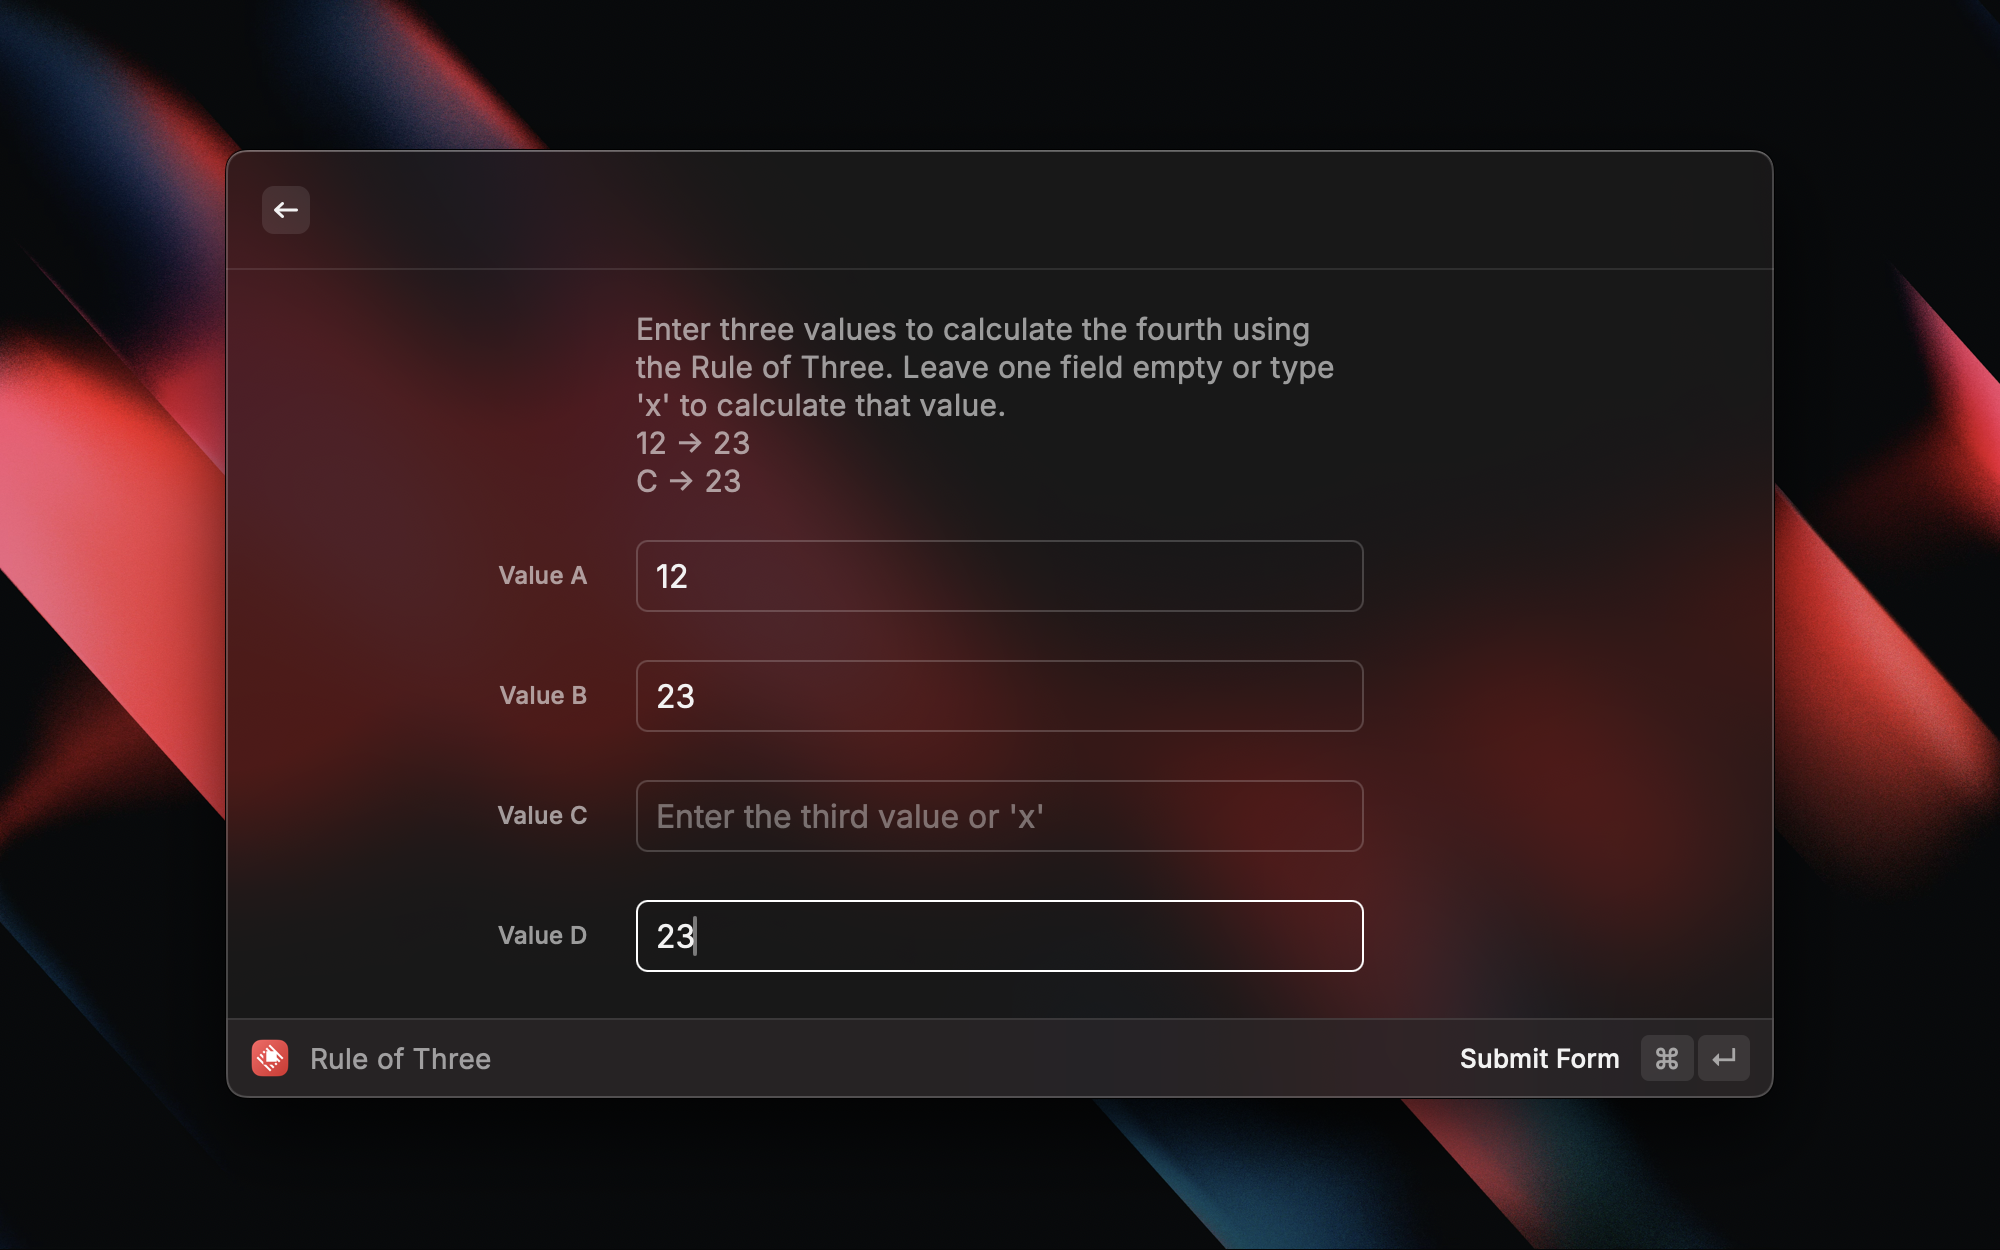
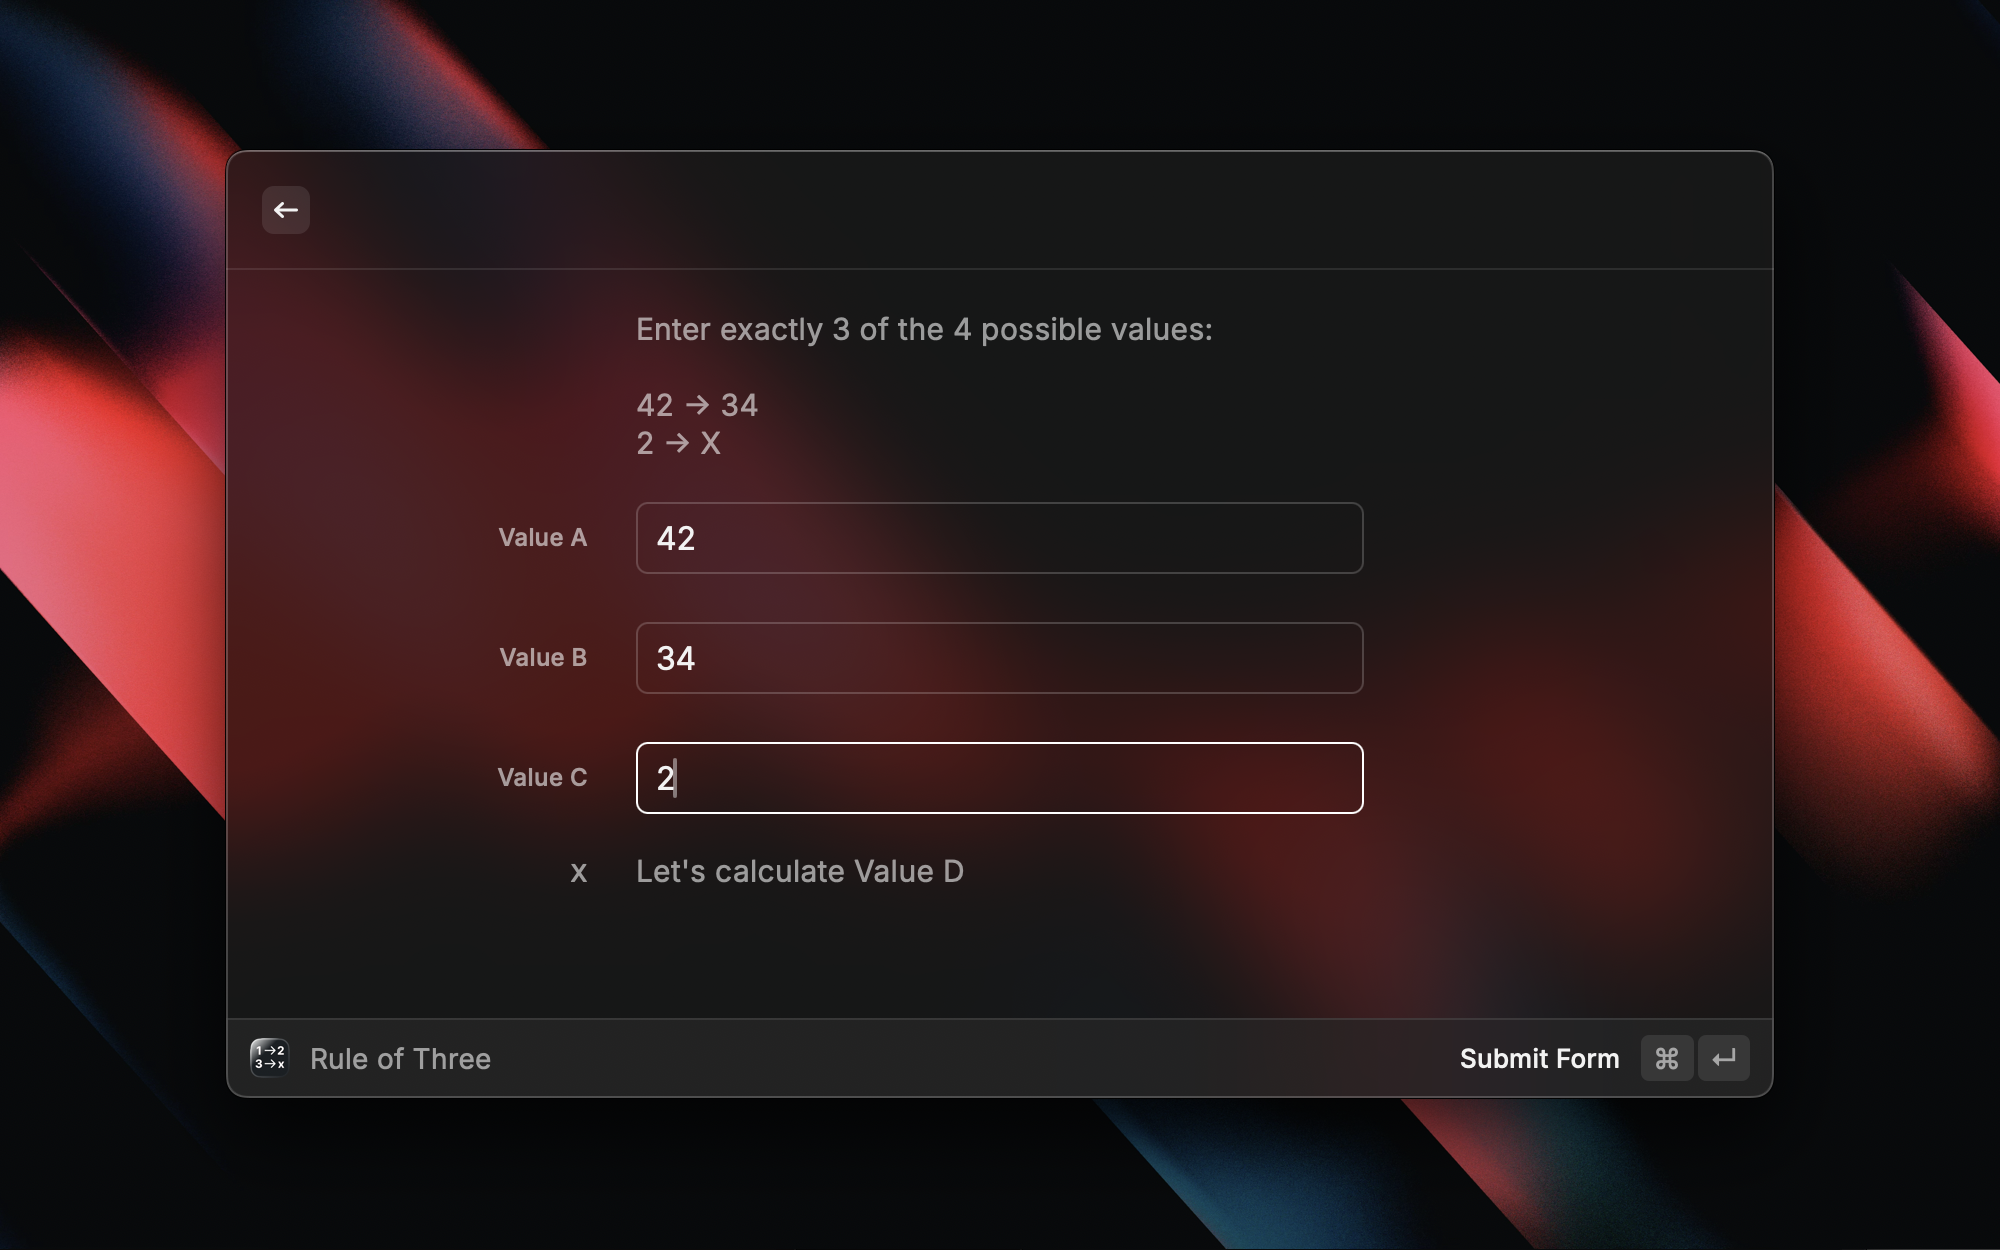
improved ui

diff --git a/src/index.tsx b/src/index.tsx
@@ -10,7 +10,7 @@ type Values = {
 
 function calculate(values: Values) {
   const { valueA, valueB, valueC, valueD } = values;
-  const nums = [valueA, valueB, valueC, valueD].map((v) => (v === "x" || v === "" ? null : parseFloat(v)));
+  const nums = [valueA, valueB, valueC, valueD].map((v) => (v === "" ? null : parseFloat(v)));
 
   const nullIndex = nums.indexOf(null);
   if (nums.filter((n) => n === null).length !== 1) {
@@ -21,41 +21,39 @@ function calculate(values: Values) {
 
   switch (nullIndex) {
     case 0:
-      return (numB! * numD!) / numC!;
+      return numC !== 0 ? (numB! * numD!) / numC! : NaN;
     case 1:
-      return (numA! * numC!) / numD!;
+      return numD !== 0 ? (numA! * numC!) / numD! : NaN;
     case 2:
-      return (numA! * numD!) / numB!;
+      return numB !== 0 ? (numA! * numD!) / numB! : NaN;
     case 3:
-      return (numC! * numB!) / numA!;
+      return numA !== 0 ? (numC! * numB!) / numA! : NaN;
     default:
       return null;
   }
 }
 
 function ResultView({ values, onBack }: { values: Values; onBack: () => void }) {
-  const { valueA, valueB, valueC, valueD } = values;
   const calculatedValue = calculate(values);
+  const result = calculatedValue !== null && !isNaN(calculatedValue) ? `X = ${calculatedValue}` : "Calculation Error";
 
-  const result = calculatedValue !== null ? `X = ${calculatedValue}` : "Calculation Error";
-  const copyResult = calculatedValue !== null ? `${calculatedValue}` : "Calculation Error";
-
-  const formattedA = (valueA || "X").padStart(10, " ");
-  const formattedB = (valueB || "X").padEnd(10, " ");
-  const formattedC = (valueC || "X").padStart(10, " ");
-  const formattedD = (valueD || "X").padEnd(10, " ");
+  const formattedA = values.valueA || "X";
+  const formattedB = values.valueB || "X";
+  const formattedC = values.valueC || "X";
+  const formattedD = values.valueD || "X";
 
   const markdown = `
-# Rule of Three Calculation Result
 
 \`\`\`
-${formattedA} -> ${formattedB}
-${formattedC} -> ${formattedD}
-\`\`\`
 
+
+  ${formattedA.padStart(10, " ")} -> ${formattedB.padEnd(10, " ")}
+  ${formattedC.padStart(10, " ")} -> ${formattedD.padEnd(10, " ")}
+
+
+\`\`\`
 
 ## ${result}
-
 `;
 
   return (
@@ -63,7 +61,7 @@ ${formattedC} -> ${formattedD}
       markdown={markdown}
       actions={
         <ActionPanel>
-          <Action.CopyToClipboard title="Copy Result to Clipboard" content={copyResult} />
+          <Action.CopyToClipboard title="Copy Result to Clipboard" content={result} />
           <Action title="Back" onAction={onBack} />
         </ActionPanel>
       }
@@ -77,68 +75,64 @@ export default function Command() {
   const [validationErrors, setValidationErrors] = useState<{ [key: string]: string | undefined }>({});
 
   const validateInput = (input: string) => {
-    if (input === "" || input === "x") {
-      return true;
-    }
-    const validFormat = /^[+-]?(\d+(\.\d*)?|\.\d+)$/.test(input); // avoiding cases like 234r34
+    if (input === "") return true;
+    const validFormat = /^[+-]?(\d+(\.\d*)?|\.\d+)$/.test(input);
     return validFormat && isFinite(parseFloat(input));
   };
 
-  const handleValidation = (key: keyof Values, value: string) => {
-    setValidationErrors((prev) => ({
-      ...prev,
-      [key]: validateInput(value) ? undefined : "Invalid input",
-    }));
+  const handleValueChange = (key: keyof Values) => (newValue: string) => {
+    setValues((prev) => ({ ...prev, [key]: newValue }));
+    const isValid = validateInput(newValue);
+    setValidationErrors((prev) => ({ ...prev, [key]: isValid ? undefined : "Invalid input" }));
   };
 
   const generateDescription = () => {
     const { valueA, valueB, valueC, valueD } = values;
-    const formattedA = validateInput(valueA) ? valueA || "A" : "A";
-    const formattedB = validateInput(valueB) ? valueB || "B" : "B";
-    const formattedC = validateInput(valueC) ? valueC || "C" : "C";
-    const formattedD = validateInput(valueD) ? valueD || "D" : "D";
+    let formattedA = valueA || "A";
+    let formattedB = valueB || "B";
+    let formattedC = valueC || "C";
+    let formattedD = valueD || "D";
 
-    return `Enter three values to calculate the fourth using the Rule of Three. Leave one field empty or type 'x' to calculate that value.
-${formattedA} -> ${formattedB}
-${formattedC} -> ${formattedD}`;
-  };
-
-  function handleSubmit(values: Values) {
-    const { valueA, valueB, valueC, valueD } = values;
-
-    const errors: { [key: string]: string | undefined } = {
-      valueA: validateInput(valueA) ? undefined : "Invalid input",
-      valueB: validateInput(valueB) ? undefined : "Invalid input",
-      valueC: validateInput(valueC) ? undefined : "Invalid input",
-      valueD: validateInput(valueD) ? undefined : "Invalid input",
-    };
-
-    setValidationErrors(errors);
-
-    if (Object.values(errors).some((error) => error !== undefined)) {
-      showToast({ title: "Invalid input", message: "Please enter valid numbers or 'x' only" });
-      return;
+    const filledCount = [valueA, valueB, valueC, valueD].filter((v) => v !== "").length;
+    if (filledCount === 3) {
+      if (valueA === "") formattedA = "X";
+      if (valueB === "") formattedB = "X";
+      if (valueC === "") formattedC = "X";
+      if (valueD === "") formattedD = "X";
     }
 
-    const numA = valueA === "x" || valueA === "" ? null : parseFloat(valueA);
-    const numB = valueB === "x" || valueB === "" ? null : parseFloat(valueB);
-    const numC = valueC === "x" || valueC === "" ? null : parseFloat(valueC);
-    const numD = valueD === "x" || valueD === "" ? null : parseFloat(valueD);
+    return `Enter exactly 3 of the 4 possible values:\n\n${formattedA} -> ${formattedB}\n${formattedC} -> ${formattedD}`;
+  };
 
-    if ([numA, numB, numC, numD].filter((value) => value === null).length !== 1) {
-      showToast({ title: "Invalid input", message: "Please leave exactly one field empty or type 'x'" });
+  const handleSubmit = () => {
+    const errors: { [key: string]: string | undefined } = {};
+    let isValid = true;
+
+    for (const [key, value] of Object.entries(values)) {
+      if (!validateInput(value)) {
+        errors[key] = "Invalid input";
+        isValid = false;
+      }
+    }
+
+    const filledCount = Object.values(values).filter((value) => value !== "").length;
+    if (filledCount !== 3) {
+      showToast({ title: "Invalid input", message: "Please leave exactly one field empty" });
+      isValid = false;
+    }
+
+    setValidationErrors(errors);
+    if (!isValid) {
       return;
     }
 
     setShowResult(true);
-  }
+  };
 
-  function handleBack() {
-    setShowResult(false);
-  }
+  const emptyFieldKey = Object.keys(values).find((key) => values[key as keyof Values] === "");
 
   return showResult ? (
-    <ResultView values={values} onBack={handleBack} />
+    <ResultView values={values} onBack={() => setShowResult(false)} />
   ) : (
     <Form
       actions={
@@ -148,50 +142,29 @@ ${formattedC} -> ${formattedD}`;
       }
     >
       <Form.Description text={generateDescription()} />
-      <Form.TextField
-        id="valueA"
-        title="Value A"
-        placeholder="Enter the first value or 'x'"
-        value={values.valueA}
-        onChange={(newValue) => {
-          setValues((prev) => ({ ...prev, valueA: newValue }));
-          handleValidation("valueA", newValue);
-        }}
-        error={validationErrors.valueA}
-      />
-      <Form.TextField
-        id="valueB"
-        title="Value B"
-        placeholder="Enter the second value or 'x'"
-        value={values.valueB}
-        onChange={(newValue) => {
-          setValues((prev) => ({ ...prev, valueB: newValue }));
-          handleValidation("valueB", newValue);
-        }}
-        error={validationErrors.valueB}
-      />
-      <Form.TextField
-        id="valueC"
-        title="Value C"
-        placeholder="Enter the third value or 'x'"
-        value={values.valueC}
-        onChange={(newValue) => {
-          setValues((prev) => ({ ...prev, valueC: newValue }));
-          handleValidation("valueC", newValue);
-        }}
-        error={validationErrors.valueC}
-      />
-      <Form.TextField
-        id="valueD"
-        title="Value D"
-        placeholder="Enter the fourth value or 'x'"
-        value={values.valueD}
-        onChange={(newValue) => {
-          setValues((prev) => ({ ...prev, valueD: newValue }));
-          handleValidation("valueD", newValue);
-        }}
-        error={validationErrors.valueD}
-      />
+      {(["valueA", "valueB", "valueC", "valueD"] as (keyof Values)[]).map((key) => {
+        const filledCount = Object.values(values).filter((v) => v !== "").length;
+        if (emptyFieldKey === key && filledCount === 3) {
+          return (
+            <Form.Description
+              key={`${key}-desc`}
+              text={`Let's calculate Value ${key.charAt(key.length - 1).toUpperCase()}`}
+              title="X"
+            />
+          );
+        }
+        return (
+          <Form.TextField
+            key={key}
+            id={key}
+            title={`Value ${key.charAt(key.length - 1).toUpperCase()}`}
+            placeholder={`Enter the ${key.charAt(key.length - 1).toUpperCase()} value`}
+            value={values[key]}
+            onChange={handleValueChange(key)}
+            error={validationErrors[key]}
+          />
+        );
+      })}
     </Form>
   );
 }
